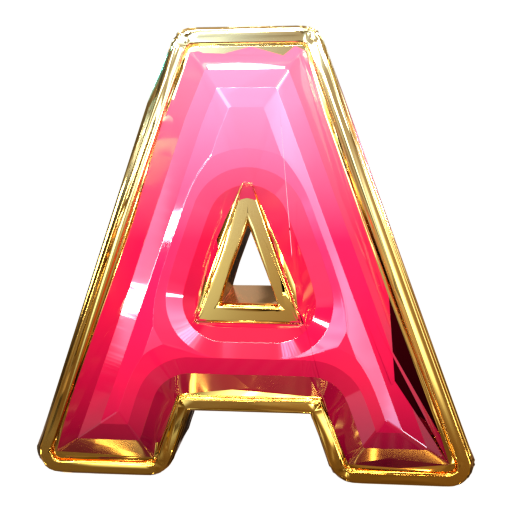
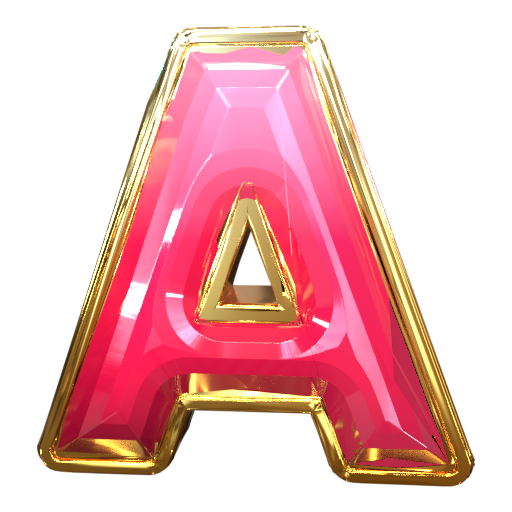
Polish the loader, A symbol and bonus intros; drop demo labels
- Remove the "local demo / play money" text from the corner line, the
  loading screen and the rules. Replay and real-session lines stay.
- Squad attack card: three squids swim in, ink three symbols on a small
  3x3 reel and they turn wild, on a transform/opacity loop. Reduced motion
  shows the finished frame.
- sym_A: lift the near-black shadow on the right leg to match the rest of
  the letter (lossless, same size).
- Bonus intro cards widen to fit their longest line, and a line that still
  won't fit is set smaller, so the Kraken's Wrath rules stay on the plate.
- Loader cards' entrance animation no longer holds a forwards fill.

Changed region(s): [[0.625, 0.5938, 0.875, 0.9375]]

diff --git a/dist/frontend/index.html b/dist/frontend/index.html
@@ -217,11 +217,43 @@
   .introLogo { width: min(100%, 760px); max-height: 22vh; object-fit: contain; filter: drop-shadow(0 10px 20px rgba(0, 0, 0, .55)); }
   .introFeats { display: grid; grid-template-columns: repeat(3, minmax(0, 1fr)); gap: clamp(10px, 2vw, 20px); width: 100%; }
   .introFeats article { display: flex; flex-direction: column; align-items: center; gap: 8px; text-align: center;
-    animation: offerIn .5s cubic-bezier(.2, 1.2, .4, 1) both; animation-delay: calc(.1s + var(--i) * .08s); }
+    animation: offerIn .5s cubic-bezier(.2, 1.2, .4, 1) backwards; animation-delay: calc(.1s + var(--i) * .08s); }
   .introFeats .fa { position: relative; width: 100%; aspect-ratio: 16 / 9; display: flex; align-items: center; justify-content: center; gap: 3%;
     border-radius: 6px; overflow: hidden; background: radial-gradient(90% 100% at 50% 20%, #1a4a74, #08182e); }
   .introFeats .fa img { max-width: 64%; max-height: 88%; object-fit: contain; filter: drop-shadow(0 6px 8px rgba(0, 0, 0, .5)); }
-  .introFeats .fa.squad img { max-width: 94%; }
+  /* squad attack: the squad swims in from the left in a V, inks three symbols on a little reel, and they turn wild.
+     The resting styles are the finished frame, so reduced motion shows that; the loop only moves transform and opacity. */
+  .introFeats .fa.squad { display: block; background: radial-gradient(70% 95% at 74% 50%, #1c5384, #08182e 78%); }
+  .introFeats .fa.squad img { max-width: none; max-height: none; }
+  .fa.squad .mini { position: absolute; right: 4%; top: 10%; bottom: 10%; width: 43%; display: grid; grid-template: repeat(3, 1fr) / repeat(3, 1fr); gap: 3%;
+    padding: 2.5%; border-radius: 6px; background: rgba(4, 12, 24, .55); box-shadow: inset 0 0 0 1px var(--line); }
+  .fa.squad .mini i { position: relative; border-radius: 4px; background: rgba(255, 255, 255, .045); }
+  .fa.squad .mini .ink { z-index: 1; }
+  .fa.squad .mini img { position: absolute; left: 6%; top: 6%; width: 88%; height: 88%; object-fit: contain; filter: none; }
+  .fa.squad .ink::before { content: ""; position: absolute; inset: -10%; pointer-events: none;
+    background: radial-gradient(circle at 42% 36%, rgba(150, 110, 230, .5) 0 9%, transparent 11%),
+      radial-gradient(circle at 50% 50%, rgba(10, 6, 22, .94) 0 42%, transparent 43.5%), radial-gradient(circle at 16% 26%, rgba(10, 6, 22, .9) 0 11%, transparent 12%),
+      radial-gradient(circle at 86% 20%, rgba(10, 6, 22, .9) 0 8%, transparent 9%), radial-gradient(circle at 80% 84%, rgba(10, 6, 22, .9) 0 12%, transparent 13%),
+      radial-gradient(circle at 18% 82%, rgba(10, 6, 22, .85) 0 7%, transparent 8%); }
+  .fa.squad .ink img:first-child { opacity: 0; }
+  .fa.squad .sq { position: absolute; filter: drop-shadow(0 5px 6px rgba(0, 0, 0, .5)); }
+  .fa.squad .s1 { left: 17%; top: 35%; width: 39%; z-index: 2; }
+  .fa.squad .s2 { left: 2%; top: 5%; width: 30%; filter: drop-shadow(0 5px 6px rgba(0, 0, 0, .5)) brightness(.88); }
+  .fa.squad .s3 { left: 4%; top: 66%; width: 30%; filter: drop-shadow(0 5px 6px rgba(0, 0, 0, .5)) brightness(.88); }
+  .fa.squad .sq { animation: squadSwim 4.8s cubic-bezier(.3, .7, .4, 1) infinite backwards; }
+  .fa.squad .s2 { animation-delay: .12s; } .fa.squad .s3 { animation-delay: .2s; }
+  .fa.squad .ink::before { animation: squadInk 4.8s ease-out infinite backwards; }
+  .fa.squad .ink img:first-child { animation: squadOld 4.8s linear infinite backwards; }
+  .fa.squad .ink .w { animation: squadWild 4.8s ease-out infinite backwards; }
+  .fa.squad .n2::before, .fa.squad .n2 img { animation-delay: .16s !important; }
+  .fa.squad .n3::before, .fa.squad .n3 img { animation-delay: .32s !important; }
+  @keyframes squadSwim {
+    0% { transform: translateX(-120%); opacity: 0; } 10% { opacity: 1; } 32% { transform: translate(0, 0); }
+    50% { transform: translate(3%, -5%); } 68% { transform: translate(5%, 3%); } 86% { transform: translate(8%, -3%); opacity: 1; }
+    100% { transform: translate(22%, 0); opacity: 0; } }
+  @keyframes squadInk { 0%, 33% { transform: scale(0) rotate(-20deg); opacity: 0; } 40% { transform: scale(1.15); opacity: 1; } 47%, 88% { transform: scale(1); opacity: 1; } 100% { transform: scale(1); opacity: 0; } }
+  @keyframes squadOld { 0%, 38% { opacity: 1; } 43%, 92% { opacity: 0; } 100% { opacity: 1; } }
+  @keyframes squadWild { 0%, 39% { opacity: 0; transform: scale(.5); } 46% { opacity: 1; transform: scale(1.14); } 52%, 88% { opacity: 1; transform: scale(1); } 96%, 100% { opacity: 0; transform: scale(1); } }
   .introFeats .fa.wilds img { max-width: 29%; }
   .introFeats .chips { position: absolute; right: 8px; top: 8px; bottom: 8px; display: flex; flex-direction: column; justify-content: center; gap: 5px; margin: 0; }
   .introFeats .chips b { padding: 2px 9px; border-radius: 999px; font-family: var(--ui); font-weight: 600; font-size: 14px; color: var(--gold);
@@ -246,6 +278,7 @@
     border: 1.5px solid var(--brass); border-radius: 5px; background: rgba(0, 0, 0, .4); }
   .introSkip input:checked::after { content: ""; width: 9px; height: 5px; border-left: 2px solid var(--brass-hi); border-bottom: 2px solid var(--brass-hi); transform: translateY(-1px) rotate(-45deg); }
   .introSkip input:focus-visible { outline: 3px solid var(--cyan); outline-offset: 2px; }
+  #loader .hint:empty { display: none; }
   #loader .hint { margin: 0; font-family: var(--copy); font-weight: 600; font-size: 12px; color: #8fa6bb; }
   #loader.quick .introFeats, #loader.quick .introSkip { display: none; }
   /* tall screens: the cards become rows, art on the left */
@@ -531,7 +564,10 @@
     <section class="introFeats" aria-label="Game features">
       <article style="--i:0"><div class="fa wild"><img src="assets/sym_wild.webp" alt=""><span class="chips"><b>x2</b><b>x3</b><b>x5</b></span></div>
         <div class="ft"><h3>Sticky wilds</h3><p>In Kraken free spins every squid wild sticks with a multiplier.</p></div></article>
-      <article style="--i:1"><div class="fa squad"><img src="assets/f_squad.webp" alt=""></div>
+      <article style="--i:1"><div class="fa squad" aria-hidden="true">
+          <span class="mini"><i><img src="assets/sym_K.webp" alt=""></i><i class="ink"><img src="assets/sym_A.webp" alt=""><img class="w" src="assets/sym_wild.webp" alt=""></i><i><img src="assets/sym_Q.webp" alt=""></i><i><img src="assets/sym_J.webp" alt=""></i><i><img src="assets/sym_anchor.webp" alt=""></i><i class="ink n2"><img src="assets/sym_K.webp" alt=""><img class="w" src="assets/sym_wild.webp" alt=""></i><i class="ink n3"><img src="assets/sym_Q.webp" alt=""><img class="w" src="assets/sym_wild.webp" alt=""></i><i><img src="assets/sym_gold.webp" alt=""></i><i><img src="assets/sym_A.webp" alt=""></i></span>
+          <img class="sq s1" src="assets/f_squad.webp" alt=""><img class="sq s2" src="assets/f_squad.webp" alt=""><img class="sq s3" src="assets/f_squad.webp" alt="">
+        </div>
         <div class="ft"><h3>Squad attack</h3><p>On a base spin the squad can swim in and ink 2 to 5 symbols into wilds.</p></div></article>
       <article style="--i:2"><div class="fa wilds"><img src="assets/sym_wild.webp" alt=""><img src="assets/sym_wild.webp" alt=""><img src="assets/sym_wild.webp" alt=""></div>
         <div class="ft"><h3>Four bonuses</h3><p>3 squid wilds open the Coin Bonus. Buy it, the Reef, the Kraken or the Mystery Wheel.</p></div></article>

diff --git a/frontend/index.html b/frontend/index.html
@@ -217,11 +217,43 @@
   .introLogo { width: min(100%, 760px); max-height: 22vh; object-fit: contain; filter: drop-shadow(0 10px 20px rgba(0, 0, 0, .55)); }
   .introFeats { display: grid; grid-template-columns: repeat(3, minmax(0, 1fr)); gap: clamp(10px, 2vw, 20px); width: 100%; }
   .introFeats article { display: flex; flex-direction: column; align-items: center; gap: 8px; text-align: center;
-    animation: offerIn .5s cubic-bezier(.2, 1.2, .4, 1) both; animation-delay: calc(.1s + var(--i) * .08s); }
+    animation: offerIn .5s cubic-bezier(.2, 1.2, .4, 1) backwards; animation-delay: calc(.1s + var(--i) * .08s); }
   .introFeats .fa { position: relative; width: 100%; aspect-ratio: 16 / 9; display: flex; align-items: center; justify-content: center; gap: 3%;
     border-radius: 6px; overflow: hidden; background: radial-gradient(90% 100% at 50% 20%, #1a4a74, #08182e); }
   .introFeats .fa img { max-width: 64%; max-height: 88%; object-fit: contain; filter: drop-shadow(0 6px 8px rgba(0, 0, 0, .5)); }
-  .introFeats .fa.squad img { max-width: 94%; }
+  /* squad attack: the squad swims in from the left in a V, inks three symbols on a little reel, and they turn wild.
+     The resting styles are the finished frame, so reduced motion shows that; the loop only moves transform and opacity. */
+  .introFeats .fa.squad { display: block; background: radial-gradient(70% 95% at 74% 50%, #1c5384, #08182e 78%); }
+  .introFeats .fa.squad img { max-width: none; max-height: none; }
+  .fa.squad .mini { position: absolute; right: 4%; top: 10%; bottom: 10%; width: 43%; display: grid; grid-template: repeat(3, 1fr) / repeat(3, 1fr); gap: 3%;
+    padding: 2.5%; border-radius: 6px; background: rgba(4, 12, 24, .55); box-shadow: inset 0 0 0 1px var(--line); }
+  .fa.squad .mini i { position: relative; border-radius: 4px; background: rgba(255, 255, 255, .045); }
+  .fa.squad .mini .ink { z-index: 1; }
+  .fa.squad .mini img { position: absolute; left: 6%; top: 6%; width: 88%; height: 88%; object-fit: contain; filter: none; }
+  .fa.squad .ink::before { content: ""; position: absolute; inset: -10%; pointer-events: none;
+    background: radial-gradient(circle at 42% 36%, rgba(150, 110, 230, .5) 0 9%, transparent 11%),
+      radial-gradient(circle at 50% 50%, rgba(10, 6, 22, .94) 0 42%, transparent 43.5%), radial-gradient(circle at 16% 26%, rgba(10, 6, 22, .9) 0 11%, transparent 12%),
+      radial-gradient(circle at 86% 20%, rgba(10, 6, 22, .9) 0 8%, transparent 9%), radial-gradient(circle at 80% 84%, rgba(10, 6, 22, .9) 0 12%, transparent 13%),
+      radial-gradient(circle at 18% 82%, rgba(10, 6, 22, .85) 0 7%, transparent 8%); }
+  .fa.squad .ink img:first-child { opacity: 0; }
+  .fa.squad .sq { position: absolute; filter: drop-shadow(0 5px 6px rgba(0, 0, 0, .5)); }
+  .fa.squad .s1 { left: 17%; top: 35%; width: 39%; z-index: 2; }
+  .fa.squad .s2 { left: 2%; top: 5%; width: 30%; filter: drop-shadow(0 5px 6px rgba(0, 0, 0, .5)) brightness(.88); }
+  .fa.squad .s3 { left: 4%; top: 66%; width: 30%; filter: drop-shadow(0 5px 6px rgba(0, 0, 0, .5)) brightness(.88); }
+  .fa.squad .sq { animation: squadSwim 4.8s cubic-bezier(.3, .7, .4, 1) infinite backwards; }
+  .fa.squad .s2 { animation-delay: .12s; } .fa.squad .s3 { animation-delay: .2s; }
+  .fa.squad .ink::before { animation: squadInk 4.8s ease-out infinite backwards; }
+  .fa.squad .ink img:first-child { animation: squadOld 4.8s linear infinite backwards; }
+  .fa.squad .ink .w { animation: squadWild 4.8s ease-out infinite backwards; }
+  .fa.squad .n2::before, .fa.squad .n2 img { animation-delay: .16s !important; }
+  .fa.squad .n3::before, .fa.squad .n3 img { animation-delay: .32s !important; }
+  @keyframes squadSwim {
+    0% { transform: translateX(-120%); opacity: 0; } 10% { opacity: 1; } 32% { transform: translate(0, 0); }
+    50% { transform: translate(3%, -5%); } 68% { transform: translate(5%, 3%); } 86% { transform: translate(8%, -3%); opacity: 1; }
+    100% { transform: translate(22%, 0); opacity: 0; } }
+  @keyframes squadInk { 0%, 33% { transform: scale(0) rotate(-20deg); opacity: 0; } 40% { transform: scale(1.15); opacity: 1; } 47%, 88% { transform: scale(1); opacity: 1; } 100% { transform: scale(1); opacity: 0; } }
+  @keyframes squadOld { 0%, 38% { opacity: 1; } 43%, 92% { opacity: 0; } 100% { opacity: 1; } }
+  @keyframes squadWild { 0%, 39% { opacity: 0; transform: scale(.5); } 46% { opacity: 1; transform: scale(1.14); } 52%, 88% { opacity: 1; transform: scale(1); } 96%, 100% { opacity: 0; transform: scale(1); } }
   .introFeats .fa.wilds img { max-width: 29%; }
   .introFeats .chips { position: absolute; right: 8px; top: 8px; bottom: 8px; display: flex; flex-direction: column; justify-content: center; gap: 5px; margin: 0; }
   .introFeats .chips b { padding: 2px 9px; border-radius: 999px; font-family: var(--ui); font-weight: 600; font-size: 14px; color: var(--gold);
@@ -246,6 +278,7 @@
     border: 1.5px solid var(--brass); border-radius: 5px; background: rgba(0, 0, 0, .4); }
   .introSkip input:checked::after { content: ""; width: 9px; height: 5px; border-left: 2px solid var(--brass-hi); border-bottom: 2px solid var(--brass-hi); transform: translateY(-1px) rotate(-45deg); }
   .introSkip input:focus-visible { outline: 3px solid var(--cyan); outline-offset: 2px; }
+  #loader .hint:empty { display: none; }
   #loader .hint { margin: 0; font-family: var(--copy); font-weight: 600; font-size: 12px; color: #8fa6bb; }
   #loader.quick .introFeats, #loader.quick .introSkip { display: none; }
   /* tall screens: the cards become rows, art on the left */
@@ -531,7 +564,10 @@
     <section class="introFeats" aria-label="Game features">
       <article style="--i:0"><div class="fa wild"><img src="assets/sym_wild.webp" alt=""><span class="chips"><b>x2</b><b>x3</b><b>x5</b></span></div>
         <div class="ft"><h3>Sticky wilds</h3><p>In Kraken free spins every squid wild sticks with a multiplier.</p></div></article>
-      <article style="--i:1"><div class="fa squad"><img src="assets/f_squad.webp" alt=""></div>
+      <article style="--i:1"><div class="fa squad" aria-hidden="true">
+          <span class="mini"><i><img src="assets/sym_K.webp" alt=""></i><i class="ink"><img src="assets/sym_A.webp" alt=""><img class="w" src="assets/sym_wild.webp" alt=""></i><i><img src="assets/sym_Q.webp" alt=""></i><i><img src="assets/sym_J.webp" alt=""></i><i><img src="assets/sym_anchor.webp" alt=""></i><i class="ink n2"><img src="assets/sym_K.webp" alt=""><img class="w" src="assets/sym_wild.webp" alt=""></i><i class="ink n3"><img src="assets/sym_Q.webp" alt=""><img class="w" src="assets/sym_wild.webp" alt=""></i><i><img src="assets/sym_gold.webp" alt=""></i><i><img src="assets/sym_A.webp" alt=""></i></span>
+          <img class="sq s1" src="assets/f_squad.webp" alt=""><img class="sq s2" src="assets/f_squad.webp" alt=""><img class="sq s3" src="assets/f_squad.webp" alt="">
+        </div>
         <div class="ft"><h3>Squad attack</h3><p>On a base spin the squad can swim in and ink 2 to 5 symbols into wilds.</p></div></article>
       <article style="--i:2"><div class="fa wilds"><img src="assets/sym_wild.webp" alt=""><img src="assets/sym_wild.webp" alt=""><img src="assets/sym_wild.webp" alt=""></div>
         <div class="ft"><h3>Four bonuses</h3><p>3 squid wilds open the Coin Bonus. Buy it, the Reef, the Kraken or the Mystery Wheel.</p></div></article>

diff --git a/dist/frontend/js/game.js b/dist/frontend/js/game.js
@@ -137,7 +137,6 @@
   function sessionDetail() {
     const parts = [];
     if (st.replayOnly && st.round) parts.push(`REPLAY · BASE ${fmt(st.round.amount / 1000000)} · COST ${fmt(st.round.cost / 1000000)} · WIN ${fmt(st.round.payout / 1000000)}`);
-    else if (st.demo) parts.push('LOCAL DEMO · PLAY MONEY');
     if (st.jurisdiction.displayRTP) parts.push(`RTP ${M.RTP.toFixed(2)}%`);
     if (st.jurisdiction.displayNetPosition && !st.replayOnly && st.balanceMicro != null) parts.push('NET ' + fmt((st.balanceMicro - st.openingBalance) / 1000000));
     if (st.jurisdiction.displaySessionTimer && st.sessionStarted != null) {
@@ -1618,7 +1617,12 @@
     const btn = p.kind === 'intro'
       ? head + 34 + (lines.length > 1 ? 56 + (lines.length - 2) * 40 : 0) + 64
       : head + 30 + (p.sub ? 210 : 174);
-    const cw = L.portrait ? 760 : 700, ch = btn + 44;
+    // the card widens to fit its longest line, as far as the screen allows; a line that still won't fit is set smaller
+    const PAD = 76, fontOf = i => i === 0 ? '700 50px "Fredoka", "Nunito", sans-serif' : '700 24px "Nunito", "Nunito", sans-serif';
+    g.save();
+    const widths = lines.map((ln, i) => { g.font = fontOf(i); return g.measureText(ln.t).width; });
+    g.restore();
+    const cw = Math.min(L.portrait ? 860 : 1000, Math.max(L.portrait ? 760 : 700, ...widths.map(x => x + PAD * 2))), ch = btn + 44;
     const top = cy - ch / 2 + 40, rise = (1 - Ease.outCubic(clamp(t / 0.45, 0, 1))) * 30;
     g.save(); g.globalAlpha = fade;
     card(cx - cw / 2, top + rise, cw, ch, 22);
@@ -1633,8 +1637,9 @@
       lines.forEach((ln, i) => {
         const u = clamp((t - 0.25 - i * 0.1) / 0.35, 0, 1);
         g.save(); g.globalAlpha = fade * u;
-        if (i === 0) text(ln.t, cx, y, 50, { grad: GOLD, weight: 700 });
-        else text(ln.t, cx, y, 24, { color: i === 1 ? CREAM : '#c9d8e6', copy: true, weight: 700 });
+        const fit = Math.min(1, (cw - PAD * 2) / (widths[i] || 1));
+        if (i === 0) text(ln.t, cx, y, 50 * fit, { grad: GOLD, weight: 700 });
+        else text(ln.t, cx, y, 24 * fit, { color: i === 1 ? CREAM : '#c9d8e6', copy: true, weight: 700 });
         g.restore();
         y += i === 0 ? 56 : 40;
       });
@@ -2196,7 +2201,7 @@
       <p>Keys: <span class="kbd">Space</span> spin / stop / skip. Hold Space for turbo and repeat spins; release to stop repeating and restore your Turbo setting. A bonus pauses repeat spins. In the purchase dialog, <span class="kbd">1</span> to <span class="kbd">5</span> select a purchase; selection alone places no wager.</p>
       <h3>Game operation</h3>
       <p>A malfunction invalidates affected plays and wins. Use a stable internet connection. If play is interrupted, reload the game or use <b>Reconnect</b> to restore an unfinished accepted round before placing another wager. The game service (RGS) records the result and settles the wallet; the browser presentation does not determine settlement. Reels, wheels, chests and other animations illustrate the recorded result and do not simulate physical devices. Animation timing and reveal positions do not change the accepted payout.</p>
-      <p class="fine">${st.demo ? 'This local demo uses play-money credits only.' : st.replayOnly ? 'Replay displays an existing result and places no wager.' : 'Your session currency, available modes and restrictions are provided by the game service.'}</p>`;
+      <p class="fine">${st.replayOnly ? 'Replay displays an existing result and places no wager.' : 'Your session currency, available modes and restrictions are provided by the game service.'}</p>`;
   }
 
   function bindUI() {
@@ -2394,7 +2399,7 @@
       state = await session.init();
       acceptConfiguration(state);
       st.round = state.round;
-      $('launchHint').textContent = state.replayOnly ? 'Recorded round replay · no wager is placed' : state.demo ? 'Local demo · play-money credits only' : 'Connected to your game session';
+      $('launchHint').textContent = state.replayOnly ? 'Recorded round replay · no wager is placed' : state.demo ? '' : 'Connected to your game session';
     } catch (error) { showEngineError(error); return; }
     const enter = withSound => {
       if (st.ready) return;

diff --git a/frontend/js/game.js b/frontend/js/game.js
@@ -137,7 +137,6 @@
   function sessionDetail() {
     const parts = [];
     if (st.replayOnly && st.round) parts.push(`REPLAY · BASE ${fmt(st.round.amount / 1000000)} · COST ${fmt(st.round.cost / 1000000)} · WIN ${fmt(st.round.payout / 1000000)}`);
-    else if (st.demo) parts.push('LOCAL DEMO · PLAY MONEY');
     if (st.jurisdiction.displayRTP) parts.push(`RTP ${M.RTP.toFixed(2)}%`);
     if (st.jurisdiction.displayNetPosition && !st.replayOnly && st.balanceMicro != null) parts.push('NET ' + fmt((st.balanceMicro - st.openingBalance) / 1000000));
     if (st.jurisdiction.displaySessionTimer && st.sessionStarted != null) {
@@ -1618,7 +1617,12 @@
     const btn = p.kind === 'intro'
       ? head + 34 + (lines.length > 1 ? 56 + (lines.length - 2) * 40 : 0) + 64
       : head + 30 + (p.sub ? 210 : 174);
-    const cw = L.portrait ? 760 : 700, ch = btn + 44;
+    // the card widens to fit its longest line, as far as the screen allows; a line that still won't fit is set smaller
+    const PAD = 76, fontOf = i => i === 0 ? '700 50px "Fredoka", "Nunito", sans-serif' : '700 24px "Nunito", "Nunito", sans-serif';
+    g.save();
+    const widths = lines.map((ln, i) => { g.font = fontOf(i); return g.measureText(ln.t).width; });
+    g.restore();
+    const cw = Math.min(L.portrait ? 860 : 1000, Math.max(L.portrait ? 760 : 700, ...widths.map(x => x + PAD * 2))), ch = btn + 44;
     const top = cy - ch / 2 + 40, rise = (1 - Ease.outCubic(clamp(t / 0.45, 0, 1))) * 30;
     g.save(); g.globalAlpha = fade;
     card(cx - cw / 2, top + rise, cw, ch, 22);
@@ -1633,8 +1637,9 @@
       lines.forEach((ln, i) => {
         const u = clamp((t - 0.25 - i * 0.1) / 0.35, 0, 1);
         g.save(); g.globalAlpha = fade * u;
-        if (i === 0) text(ln.t, cx, y, 50, { grad: GOLD, weight: 700 });
-        else text(ln.t, cx, y, 24, { color: i === 1 ? CREAM : '#c9d8e6', copy: true, weight: 700 });
+        const fit = Math.min(1, (cw - PAD * 2) / (widths[i] || 1));
+        if (i === 0) text(ln.t, cx, y, 50 * fit, { grad: GOLD, weight: 700 });
+        else text(ln.t, cx, y, 24 * fit, { color: i === 1 ? CREAM : '#c9d8e6', copy: true, weight: 700 });
         g.restore();
         y += i === 0 ? 56 : 40;
       });
@@ -2196,7 +2201,7 @@
       <p>Keys: <span class="kbd">Space</span> spin / stop / skip. Hold Space for turbo and repeat spins; release to stop repeating and restore your Turbo setting. A bonus pauses repeat spins. In the purchase dialog, <span class="kbd">1</span> to <span class="kbd">5</span> select a purchase; selection alone places no wager.</p>
       <h3>Game operation</h3>
       <p>A malfunction invalidates affected plays and wins. Use a stable internet connection. If play is interrupted, reload the game or use <b>Reconnect</b> to restore an unfinished accepted round before placing another wager. The game service (RGS) records the result and settles the wallet; the browser presentation does not determine settlement. Reels, wheels, chests and other animations illustrate the recorded result and do not simulate physical devices. Animation timing and reveal positions do not change the accepted payout.</p>
-      <p class="fine">${st.demo ? 'This local demo uses play-money credits only.' : st.replayOnly ? 'Replay displays an existing result and places no wager.' : 'Your session currency, available modes and restrictions are provided by the game service.'}</p>`;
+      <p class="fine">${st.replayOnly ? 'Replay displays an existing result and places no wager.' : 'Your session currency, available modes and restrictions are provided by the game service.'}</p>`;
   }
 
   function bindUI() {
@@ -2394,7 +2399,7 @@
       state = await session.init();
       acceptConfiguration(state);
       st.round = state.round;
-      $('launchHint').textContent = state.replayOnly ? 'Recorded round replay · no wager is placed' : state.demo ? 'Local demo · play-money credits only' : 'Connected to your game session';
+      $('launchHint').textContent = state.replayOnly ? 'Recorded round replay · no wager is placed' : state.demo ? '' : 'Connected to your game session';
     } catch (error) { showEngineError(error); return; }
     const enter = withSound => {
       if (st.ready) return;
